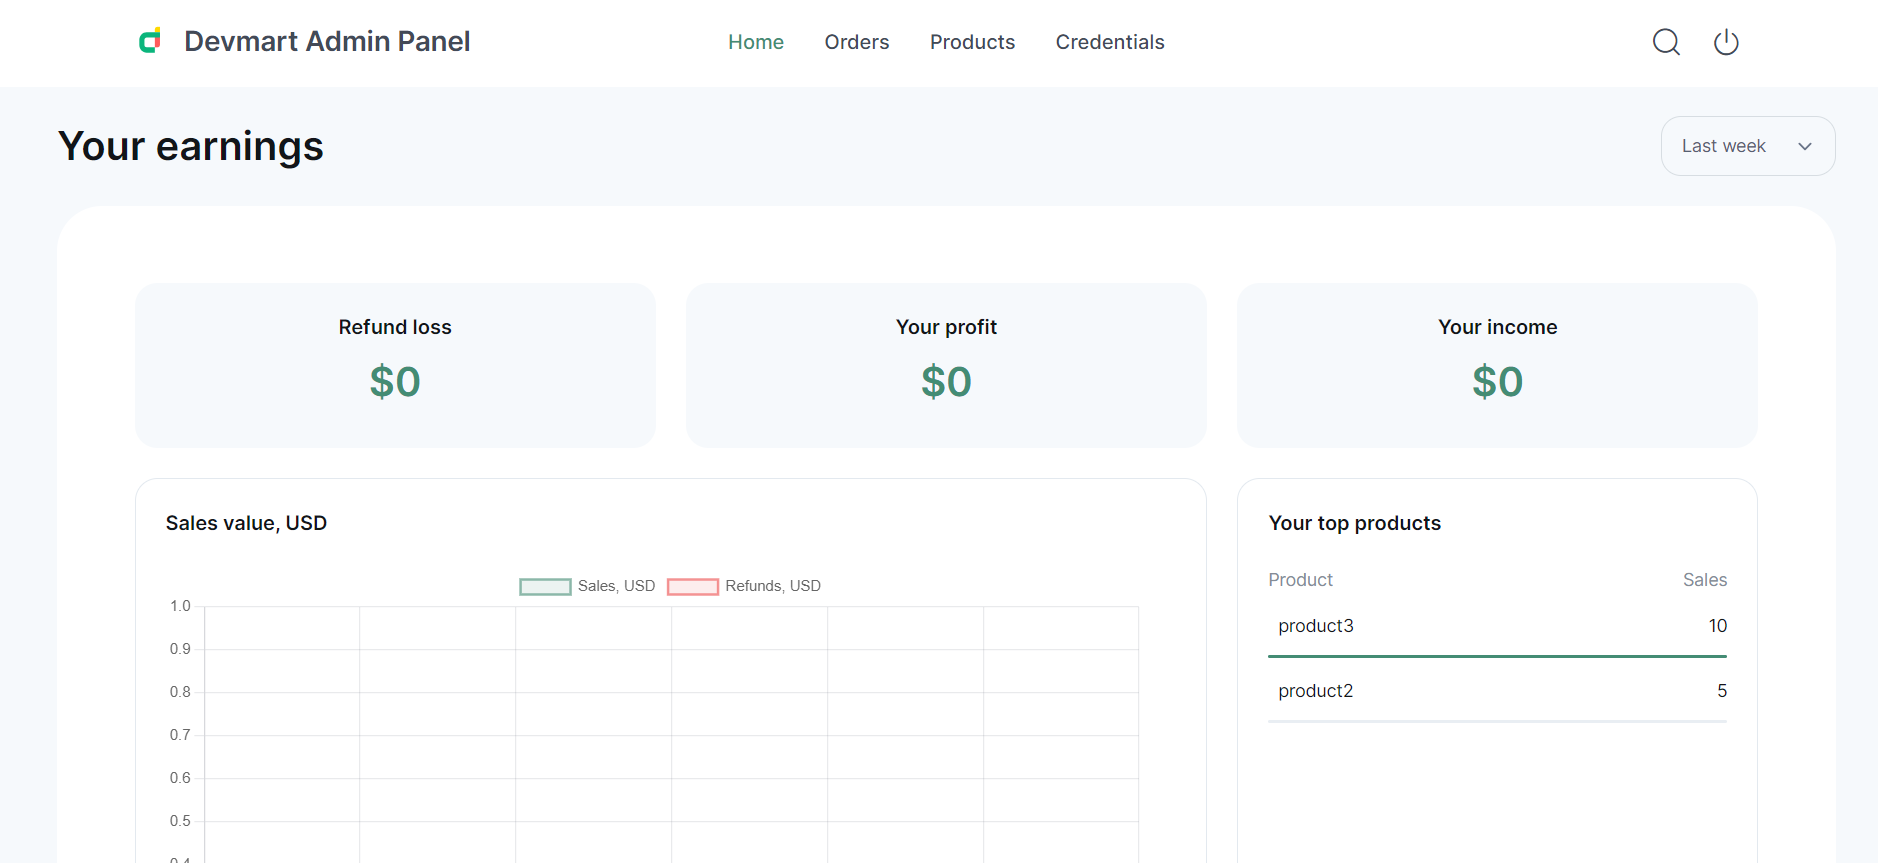
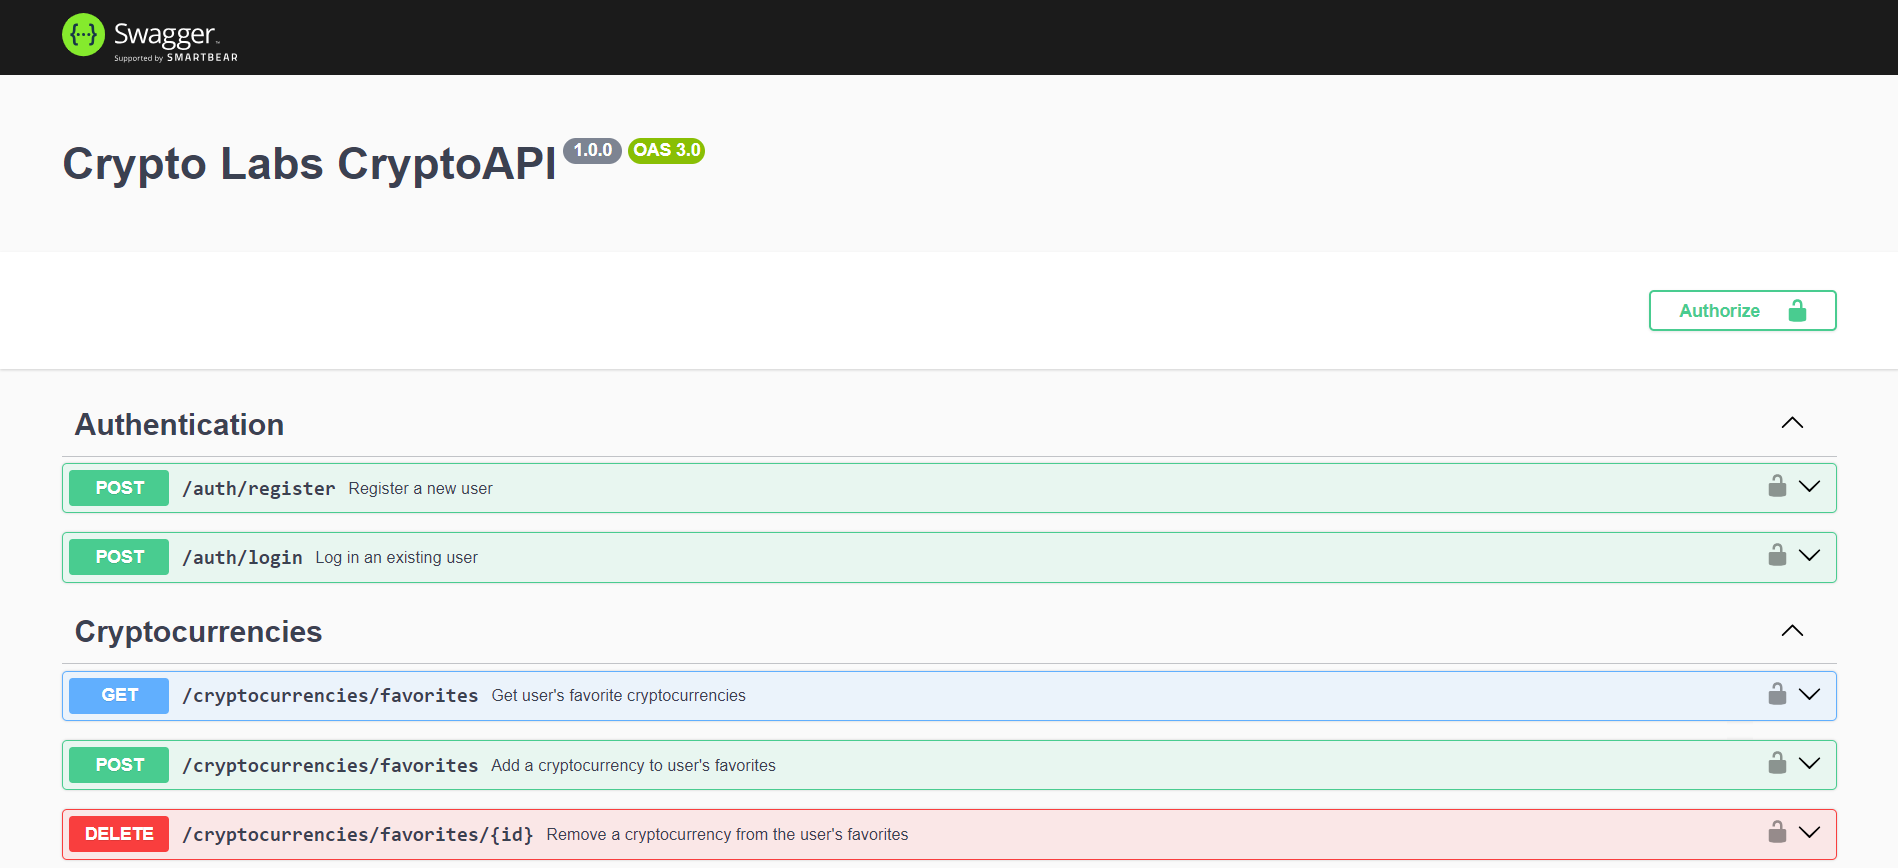
P5

diff --git a/assets/portfolio.html b/assets/portfolio.html
@@ -259,21 +259,6 @@
         <!-- Page title-->
         <h1 class="text-center pb-3 pb-md-4 pb-lg-5 mb-lg-0 mb-xl-2 mb-xxl-4">Projects</h1>
         <!-- Item-->
-        <!-- <article class="row align-items-center card-hover pb-5 mb-md-2 mb-lg-3 mb-xl-4" data-aos="fade-up"
-          data-aos-duration="600" data-aos-offset="280">
-          <div class="col-md-7 offset-xxl-1 mb-4 mb-md-0"><a href="https://swasthaayurweda.lk/"><img class="rounded-5"
-                src="../assets/img/SS1.png" width="700" alt="Image"></a></div>
-          <div class="col-md-5 col-xl-4" data-aos="fade-up" data-aos-duration="850" data-aos-offset="180"
-            data-disable-parallax-down="md">
-            <div class="ms-md-4 ms-lg-5 ms-xxl-0" style="max-width: 330px;">
-              <h2 class="mb-lg-4"><a href="https://swasthaayurweda.lk/">Swastha weda gedara</a></h2>
-              <p class="mb-0 mb-md-1 mb-lg-3">Swastha weda gedara is a renowned Ayurvedic treatment center that specializes in providing holistic healthcare based on ancient Ayurvedic principles. Located in a serene and tranquil setting, Swastha Ayurveda offers a wide range of traditional Ayurvedic therapies and treatments aimed at promoting overall well-being and healing.</p><a
-                class="btn btn-lg btn-link px-0 opacity-0 d-none d-md-inline-flex" href="https://swasthaayurweda.lk/">See
-                more<i class="ai-arrow-right ms-2"></i></a>
-            </div>
-          </div>
-        </article> -->
-        <!-- Item-->
         <article class="row align-items-center card-hover pb-5 mb-md-2 mb-lg-3 mb-xl-4" data-aos="fade-up" data-aos-duration="600" data-aos-offset="280">
           <div class="col-md-7 order-md-2 mb-4 mb-md-0"><a href="https://devmart.devrious.lk/"><img class="rounded-5" src="../assets/img/SS2.png" width="700" alt="Image"></a></div>
           <div class="col-md-5 col-xl-4 offset-xxl-1 order-md-1" data-aos="fade-up" data-aos-duration="850" data-aos-offset="180" data-disable-parallax-down="md">
@@ -290,8 +275,8 @@
           <div class="col-md-7 offset-xxl-1 mb-4 mb-md-0"><a href="https://api.devrious.lk/"><img class="rounded-5" src="../assets/img/SS3.png" width="700" alt="Image"></a></div>
           <div class="col-md-5 col-xl-4" data-aos="fade-up" data-aos-duration="850" data-aos-offset="180" data-disable-parallax-down="md">
             <div class="ms-md-4 ms-lg-5 ms-xxl-0" style="max-width: 330px;">
-              <h2 class="mb-lg-4"><a href="https://api.devrious.lk/">Devmart example project admin panel</a></h2>
-              <p class="mb-0 mb-md-1 mb-lg-3">Every E-Commerce website needs an admin panel to manage the website. We made this project to make our clients understand about E-Commerce admin panels. Contact our agent to get credentials for this admin panel.</p><a class="btn btn-lg btn-link px-0 opacity-0 d-none d-md-inline-flex" href="https://api.devrious.lk/">See
+              <h2 class="mb-lg-4"><a href="https://api.devrious.lk/">Crypto Labs Crypto API</a></h2>
+              <p class="mb-0 mb-md-1 mb-lg-3">Introducing Crypto Labs, your go-to API for live updates on current cryptocurrency prices. With Crypto Labs, developers can effortlessly integrate real-time data on various cryptocurrencies into their applications, providing users with accurate and up-to-date information on market trends.</p><a class="btn btn-lg btn-link px-0 opacity-0 d-none d-md-inline-flex" href="https://api.devrious.lk/">See
                 more<i class="ai-arrow-right ms-2"></i></a>
             </div>
           </div>
